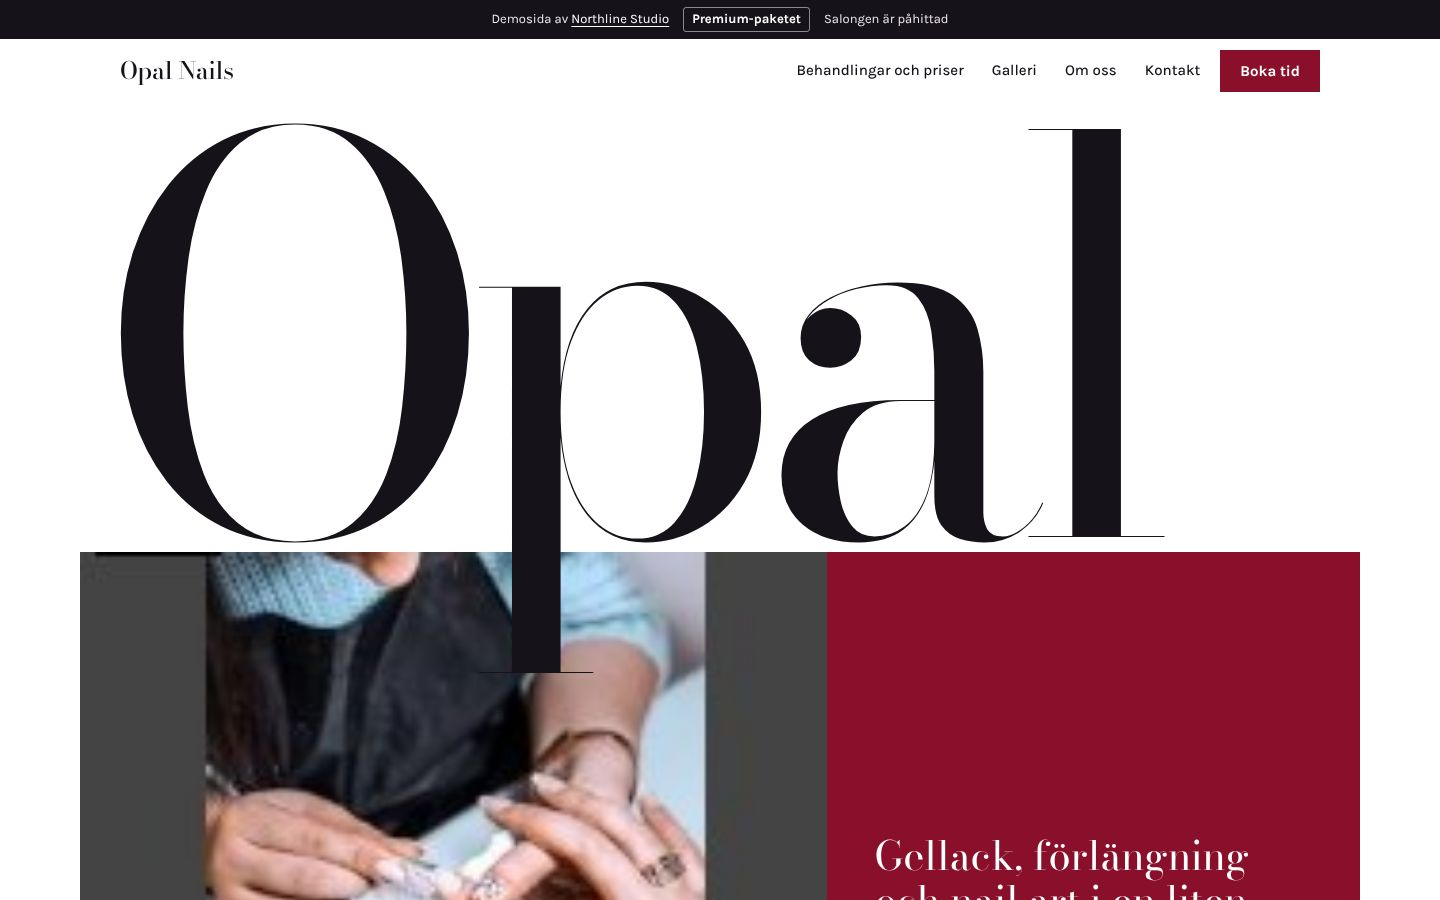
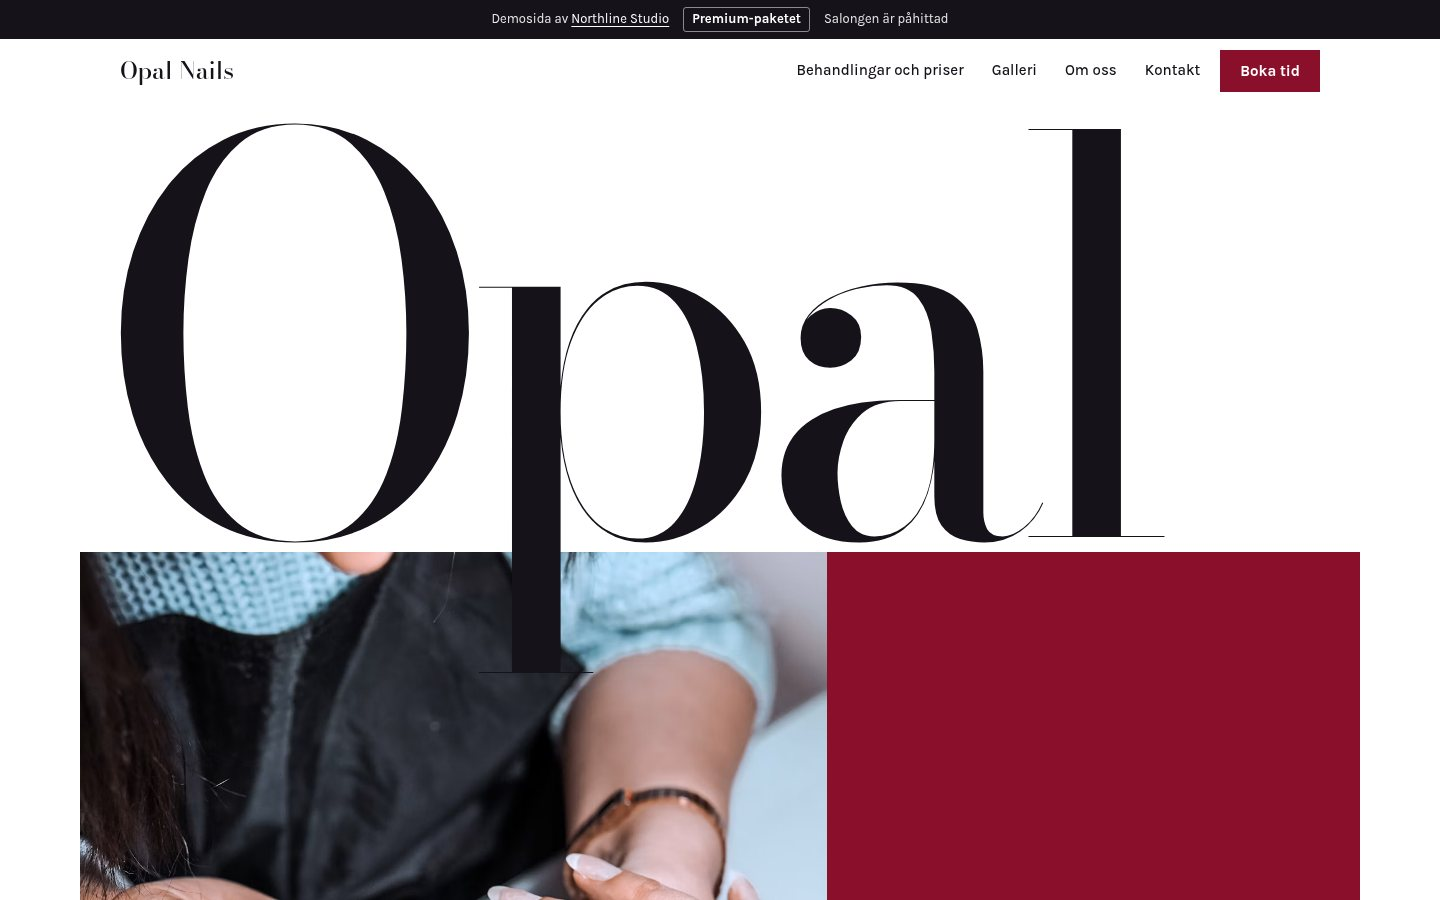
Startsida: riktiga skärmdumpar av demosidorna, utan telefonnotch
Skärmdumparna är tagna från de publicerade demosidorna med riktiga foton.
Notchen täckte demoraden och är borttagen, laptopfoten svämmar inte
längre över i mobilen.

Claude-Session: https://claude.ai/code/session_01JRvTWJf2wrS2rCx45NQxPy

Changed region(s): [[0.0312, 0.5911, 0.875, 1.0], [0.625, 0.0, 0.6562, 0.0311]]

diff --git a/index.html b/index.html
@@ -38,7 +38,7 @@
   <link rel="preconnect" href="https://fonts.gstatic.com" crossorigin>
   <link rel="stylesheet" href="https://fonts.googleapis.com/css2?family=Familjen+Grotesk:wght@500;600;700&family=Hanken+Grotesk:wght@400;500;600&display=swap">
 
-  <link rel="stylesheet" href="styles.css?v=202610192000">
+  <link rel="stylesheet" href="styles.css?v=202610192100">
 
   <!-- Strukturerad data: hjälper Google förstå att detta är ett företag -->
   <script type="application/ld+json">

diff --git a/integritetspolicy.html b/integritetspolicy.html
@@ -12,7 +12,7 @@
   <link rel="preconnect" href="https://fonts.googleapis.com">
   <link rel="preconnect" href="https://fonts.gstatic.com" crossorigin>
   <link rel="stylesheet" href="https://fonts.googleapis.com/css2?family=Familjen+Grotesk:wght@500;600;700&family=Hanken+Grotesk:wght@400;500;600&display=swap">
-  <link rel="stylesheet" href="styles.css?v=202610192000">
+  <link rel="stylesheet" href="styles.css?v=202610192100">
 </head>
 <body id="topp">
 
